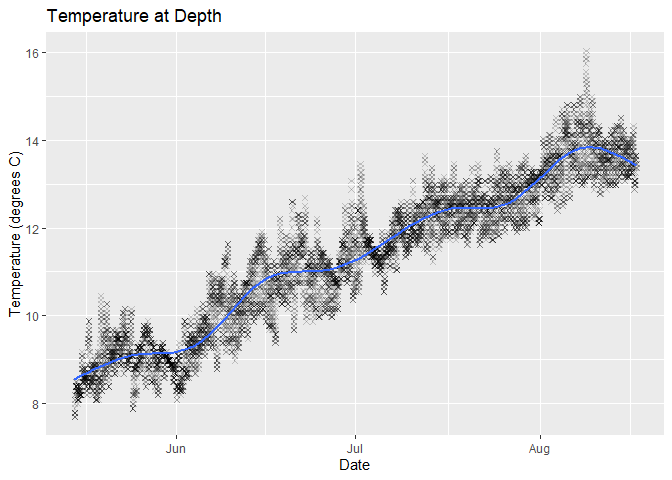
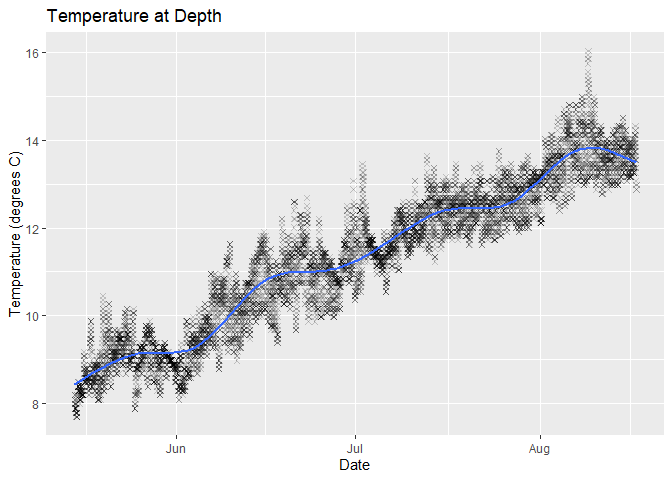
add option to choose site name remove sensor as color

Changed region(s): [[0.0938, 0.0938, 0.9688, 0.875]]

diff --git a/README.md b/README.md
@@ -27,18 +27,41 @@ x
 ```
 
     ## # A tibble: 9,025 x 5
-    ##    Reading DateTime             Temp Intensity Site         
-    ##      <int> <dttm>              <dbl>     <dbl> <chr>        
-    ##  1      85 2021-05-15 00:04:32  7.68         0 Little Drisko
-    ##  2      86 2021-05-15 00:19:32  7.68         0 Little Drisko
-    ##  3      87 2021-05-15 00:34:32  7.78         0 Little Drisko
-    ##  4      88 2021-05-15 00:49:32  7.78         0 Little Drisko
-    ##  5      89 2021-05-15 01:04:32  7.78         2 Little Drisko
-    ##  6      90 2021-05-15 01:19:32  7.68         9 Little Drisko
-    ##  7      91 2021-05-15 01:34:32  7.68        20 Little Drisko
-    ##  8      92 2021-05-15 01:49:32  7.78        37 Little Drisko
-    ##  9      93 2021-05-15 02:04:32  7.78        69 Little Drisko
-    ## 10      94 2021-05-15 02:19:32  7.78        57 Little Drisko
+    ##    Reading DateTime             Temp Intensity Site        
+    ##      <int> <dttm>              <dbl>     <dbl> <chr>       
+    ##  1      53 2021-05-15 00:04:32  8.18         0 LittleDrisko
+    ##  2      54 2021-05-15 00:19:32  8.18         0 LittleDrisko
+    ##  3      55 2021-05-15 00:34:32  8.08         0 LittleDrisko
+    ##  4      56 2021-05-15 00:49:32  8.18         0 LittleDrisko
+    ##  5      57 2021-05-15 01:04:32  8.08         0 LittleDrisko
+    ##  6      58 2021-05-15 01:19:32  8.08         0 LittleDrisko
+    ##  7      59 2021-05-15 01:34:32  7.98         0 LittleDrisko
+    ##  8      60 2021-05-15 01:49:32  7.88         0 LittleDrisko
+    ##  9      61 2021-05-15 02:04:32  7.88         0 LittleDrisko
+    ## 10      62 2021-05-15 02:19:32  7.88         0 LittleDrisko
+    ## # ... with 9,015 more rows
+
+## Read Example Data with User Defined Site
+
+``` r
+library(hobotemp)
+x <- read_hobotemp(site = "Little Drisko Island")
+x
+```
+
+    ## # A tibble: 9,025 x 5
+    ##    Reading DateTime             Temp Intensity Site                
+    ##      <int> <dttm>              <dbl>     <dbl> <chr>               
+    ##  1      53 2021-05-15 00:04:32  8.18         0 Little Drisko Island
+    ##  2      54 2021-05-15 00:19:32  8.18         0 Little Drisko Island
+    ##  3      55 2021-05-15 00:34:32  8.08         0 Little Drisko Island
+    ##  4      56 2021-05-15 00:49:32  8.18         0 Little Drisko Island
+    ##  5      57 2021-05-15 01:04:32  8.08         0 Little Drisko Island
+    ##  6      58 2021-05-15 01:19:32  8.08         0 Little Drisko Island
+    ##  7      59 2021-05-15 01:34:32  7.98         0 Little Drisko Island
+    ##  8      60 2021-05-15 01:49:32  7.88         0 Little Drisko Island
+    ##  9      61 2021-05-15 02:04:32  7.88         0 Little Drisko Island
+    ## 10      62 2021-05-15 02:19:32  7.88         0 Little Drisko Island
     ## # ... with 9,015 more rows
 
 ## Draw Example Plot
@@ -59,42 +82,19 @@ xud
 ```
 
     ## # A tibble: 1,152 x 5
-    ##    Reading DateTime             Temp Intensity Site         
-    ##      <int> <dttm>              <dbl>     <dbl> <chr>        
-    ##  1     565 2021-05-20 00:04:32  9.08         0 Little Drisko
-    ##  2     566 2021-05-20 00:19:32  9.08         0 Little Drisko
-    ##  3     567 2021-05-20 00:34:32  9.08         0 Little Drisko
-    ##  4     568 2021-05-20 00:49:32  9.18         0 Little Drisko
-    ##  5     569 2021-05-20 01:04:32  9.18         0 Little Drisko
-    ##  6     570 2021-05-20 01:19:32  8.88         0 Little Drisko
-    ##  7     571 2021-05-20 01:34:32  8.78         0 Little Drisko
-    ##  8     572 2021-05-20 01:49:32  8.68         0 Little Drisko
-    ##  9     573 2021-05-20 02:04:32  8.58         0 Little Drisko
-    ## 10     574 2021-05-20 02:19:32  8.58         0 Little Drisko
+    ##    Reading DateTime             Temp Intensity Site        
+    ##      <int> <dttm>              <dbl>     <dbl> <chr>       
+    ##  1     533 2021-05-20 00:04:32  8.38         0 LittleDrisko
+    ##  2     534 2021-05-20 00:19:32  8.48         0 LittleDrisko
+    ##  3     535 2021-05-20 00:34:32  8.48         0 LittleDrisko
+    ##  4     536 2021-05-20 00:49:32  8.48         0 LittleDrisko
+    ##  5     537 2021-05-20 01:04:32  8.58         0 LittleDrisko
+    ##  6     538 2021-05-20 01:19:32  8.58         0 LittleDrisko
+    ##  7     539 2021-05-20 01:34:32  8.68         0 LittleDrisko
+    ##  8     540 2021-05-20 01:49:32  8.68         0 LittleDrisko
+    ##  9     541 2021-05-20 02:04:32  8.78         0 LittleDrisko
+    ## 10     542 2021-05-20 02:19:32  8.78         0 LittleDrisko
     ## # ... with 1,142 more rows
-
-## Read Example Data with User Defined Site
-
-``` r
-library(hobotemp)
-x <- read_hobotemp(site = "Little Drisko Island")
-x
-```
-
-    ## # A tibble: 9,025 x 5
-    ##    Reading DateTime             Temp Intensity Site         
-    ##      <int> <dttm>              <dbl>     <dbl> <chr>        
-    ##  1      85 2021-05-15 00:04:32  7.68         0 Little Drisko Island
-    ##  2      86 2021-05-15 00:19:32  7.68         0 Little Drisko Island
-    ##  3      87 2021-05-15 00:34:32  7.78         0 Little Drisko Island
-    ##  4      88 2021-05-15 00:49:32  7.78         0 Little Drisko Island
-    ##  5      89 2021-05-15 01:04:32  7.78         2 Little Drisko Island
-    ##  6      90 2021-05-15 01:19:32  7.68         9 Little Drisko Island
-    ##  7      91 2021-05-15 01:34:32  7.68        20 Little Drisko Island
-    ##  8      92 2021-05-15 01:49:32  7.78        37 Little Drisko Island
-    ##  9      93 2021-05-15 02:04:32  7.78        69 Little Drisko Island
-    ## 10      94 2021-05-15 02:19:32  7.78        57 Little Drisko Island
-    ## # ... with 9,015 more rows
 
 ## Draw Example Plot User Defined Start/Stop Dates
 
@@ -112,20 +112,20 @@ xna <- read_hobotemp(clipped = "none")
 xna
 ```
 
-    ## # A tibble: 9,169 x 5
-    ##    Reading DateTime             Temp Intensity Site         
-    ##      <int> <dttm>              <dbl>     <dbl> <chr>        
-    ##  1       1 2021-05-14 03:19:32  20.1         1 Little Drisko
-    ##  2       2 2021-05-14 03:19:59  NA          NA Little Drisko
-    ##  3       3 2021-05-14 03:34:32  20.5        36 Little Drisko
-    ##  4       4 2021-05-14 03:49:32  20.5        37 Little Drisko
-    ##  5       5 2021-05-14 04:04:32  15.5        26 Little Drisko
-    ##  6       6 2021-05-14 04:19:32  14.0        25 Little Drisko
-    ##  7       7 2021-05-14 04:34:32  14.7        38 Little Drisko
-    ##  8       8 2021-05-14 04:49:32  14.7       123 Little Drisko
-    ##  9       9 2021-05-14 05:04:32  13.9        60 Little Drisko
-    ## 10      10 2021-05-14 05:19:32  15.3        35 Little Drisko
-    ## # ... with 9,159 more rows
+    ## # A tibble: 9,165 x 5
+    ##    Reading DateTime             Temp Intensity Site        
+    ##      <int> <dttm>              <dbl>     <dbl> <chr>       
+    ##  1       1 2021-05-14 11:19:32  20.1         1 LittleDrisko
+    ##  2       3 2021-05-14 11:34:32  20.5        36 LittleDrisko
+    ##  3       4 2021-05-14 11:49:32  20.5        37 LittleDrisko
+    ##  4       5 2021-05-14 12:04:32  15.5        26 LittleDrisko
+    ##  5       6 2021-05-14 12:19:32  14.0        25 LittleDrisko
+    ##  6       7 2021-05-14 12:34:32  14.7        38 LittleDrisko
+    ##  7       8 2021-05-14 12:49:32  14.7       123 LittleDrisko
+    ##  8       9 2021-05-14 13:04:32  13.9        60 LittleDrisko
+    ##  9      10 2021-05-14 13:19:32  15.3        35 LittleDrisko
+    ## 10      11 2021-05-14 13:34:32  14.6        38 LittleDrisko
+    ## # ... with 9,155 more rows
 
 ## Draw Example Plot Without Clipping Data
 
